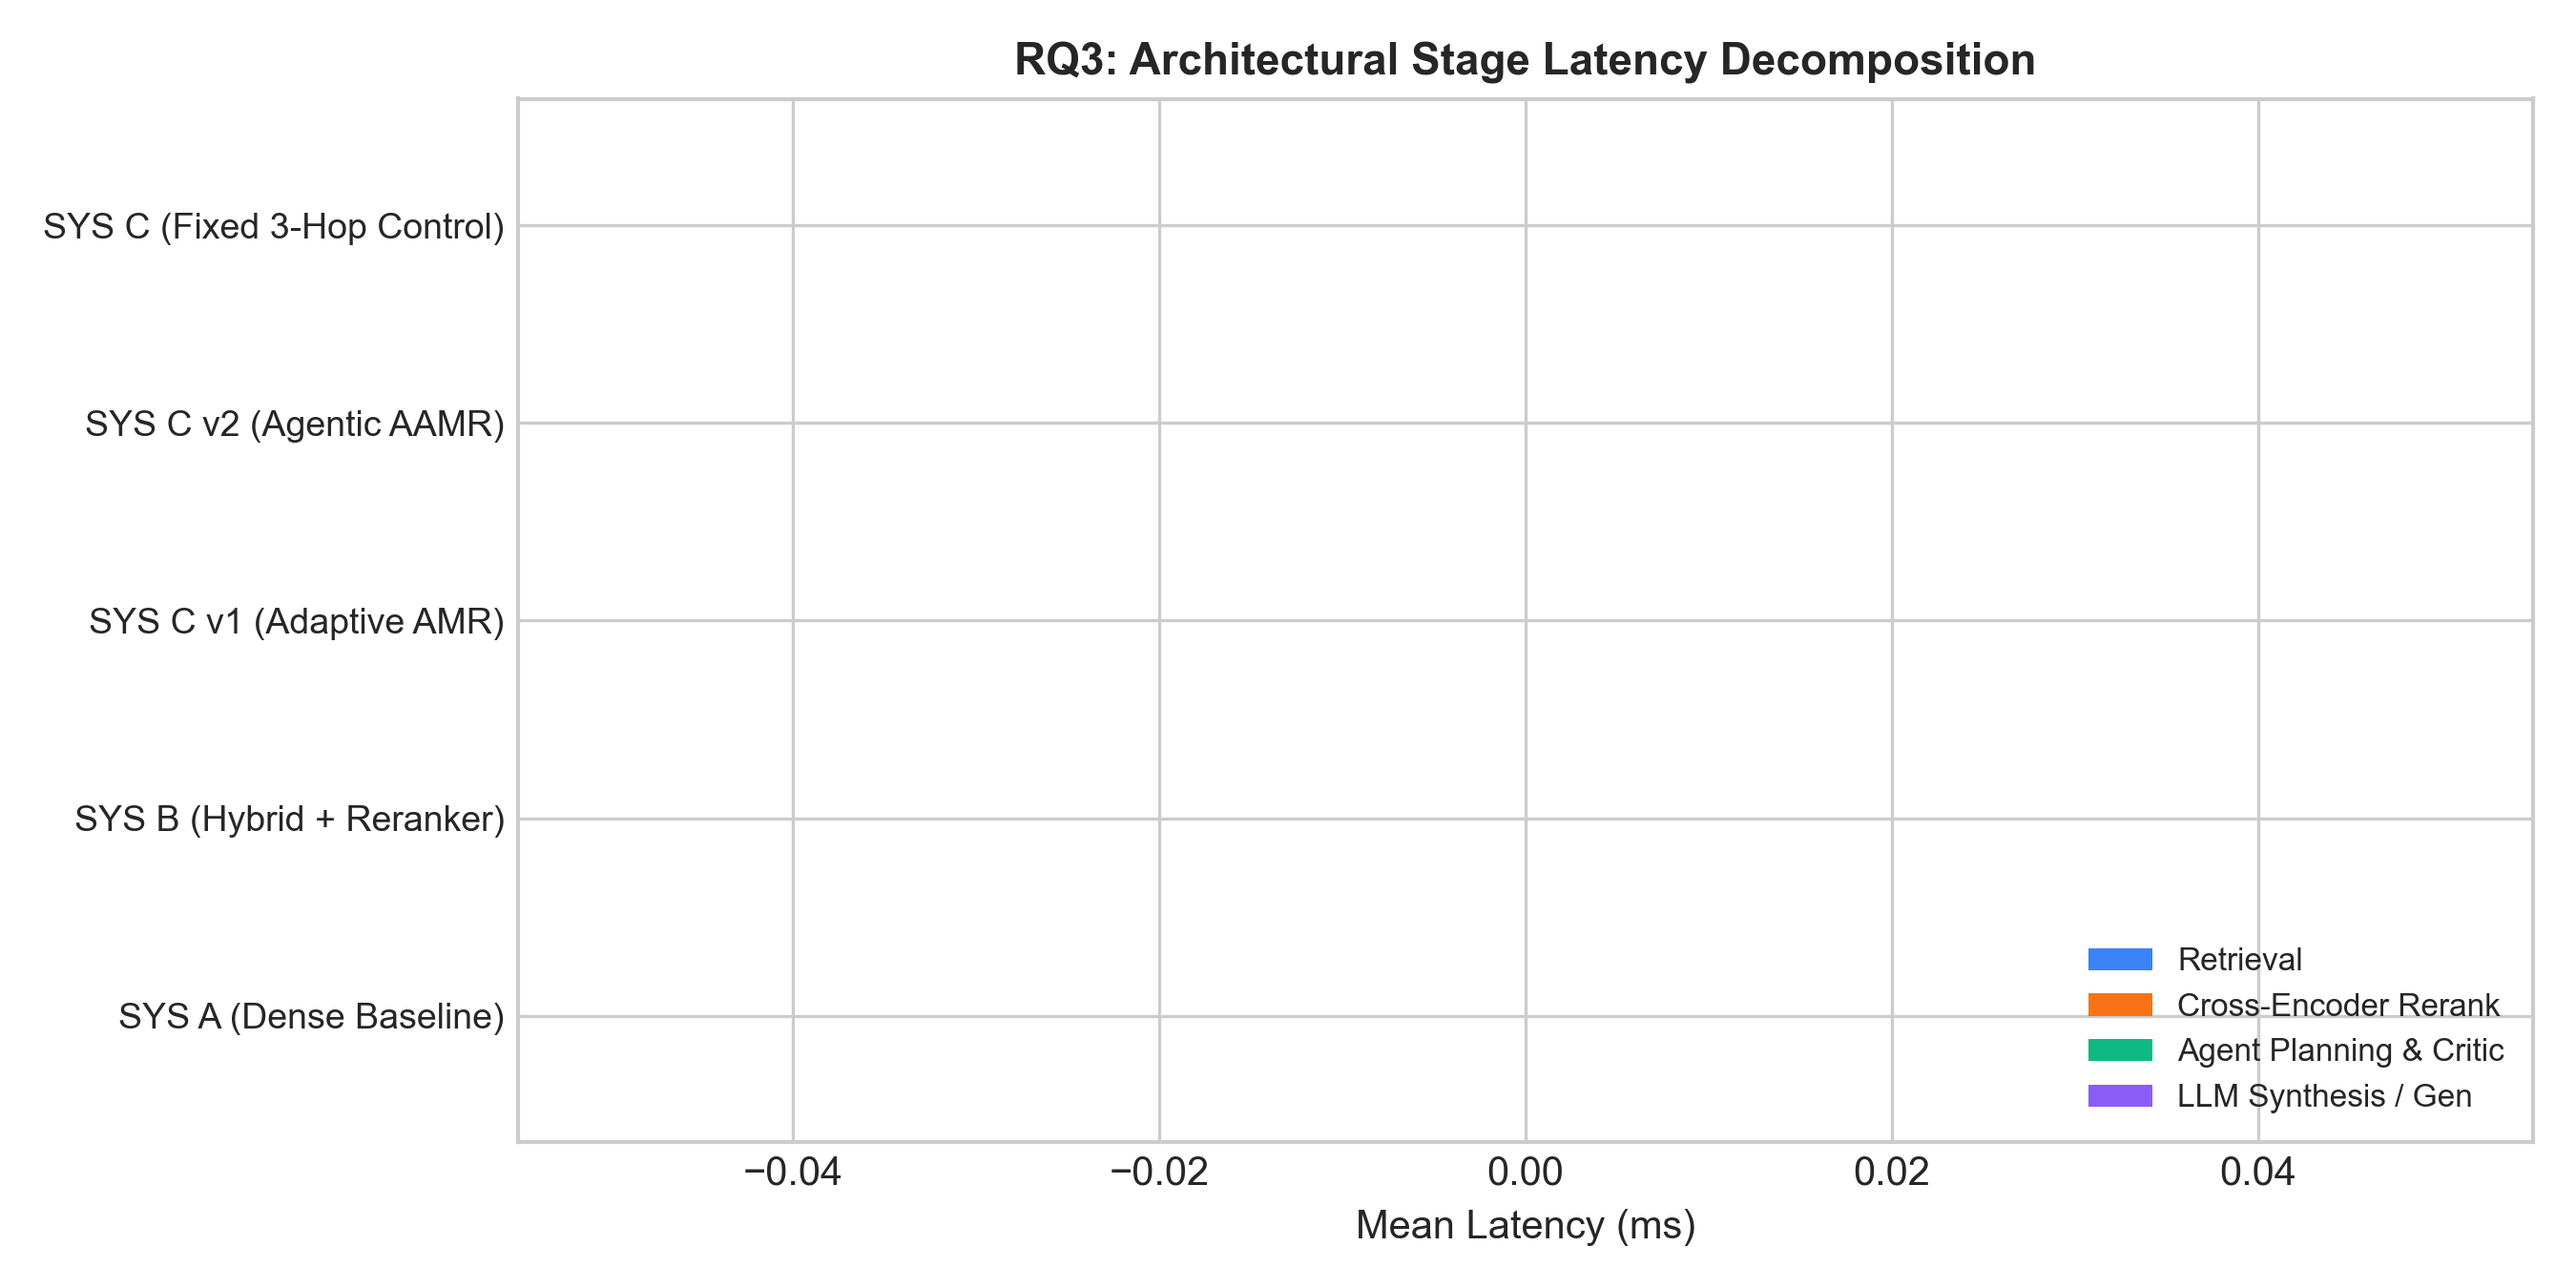
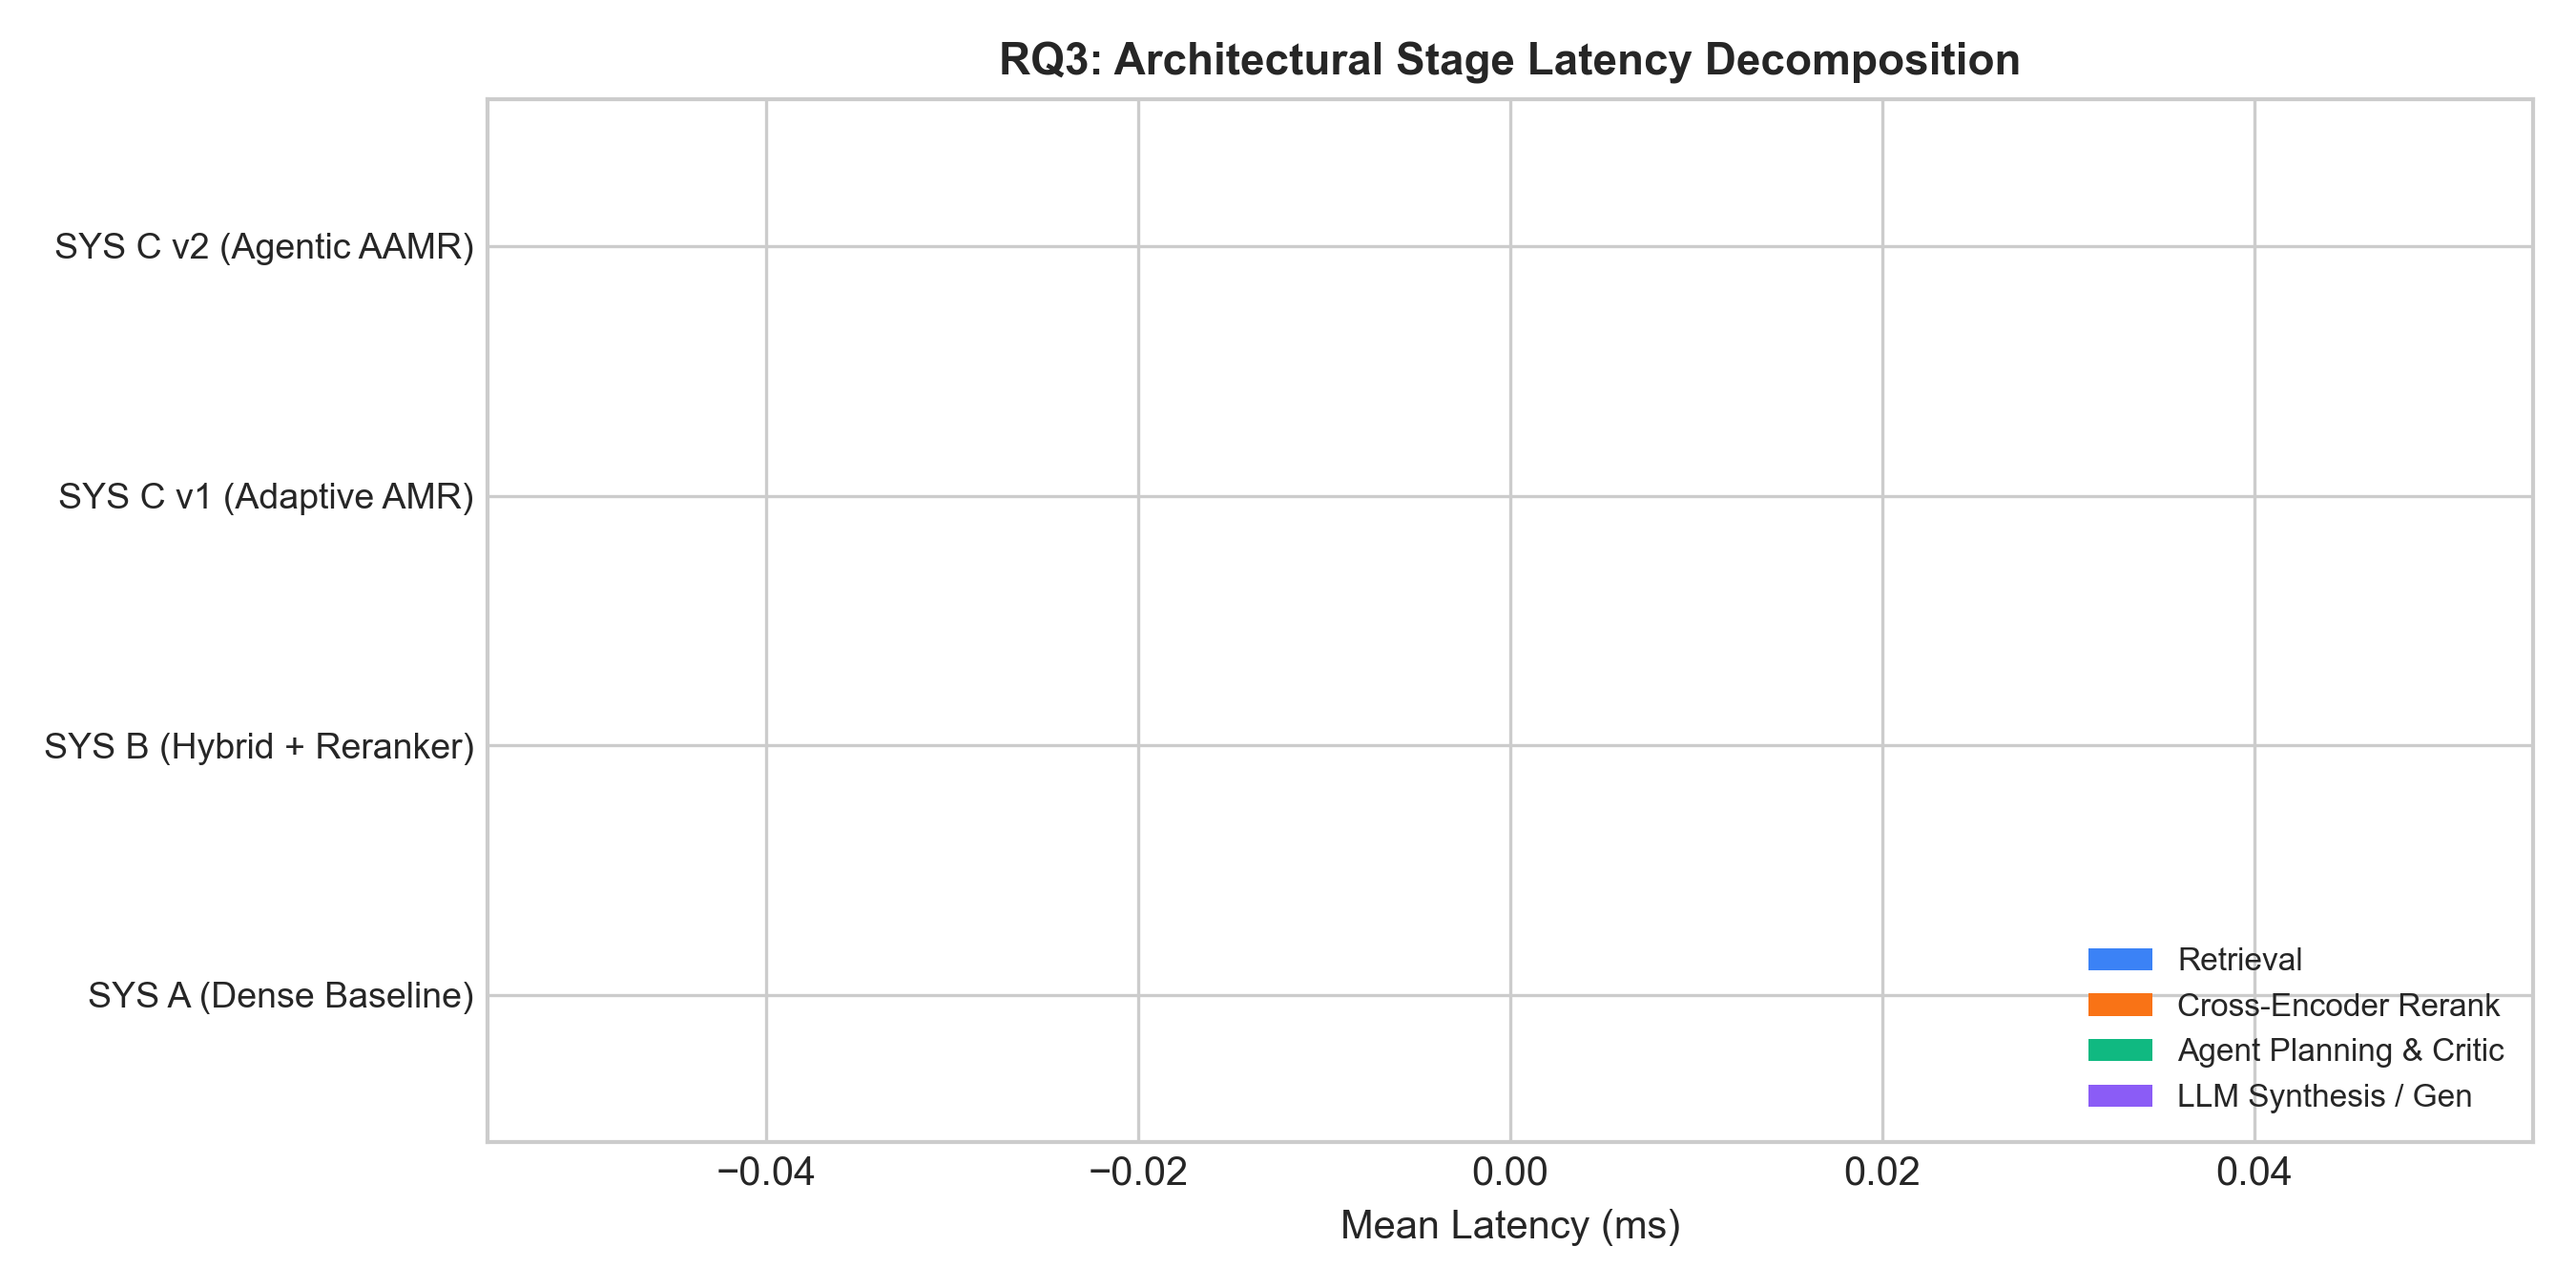
feat(rq3): enforce strictly 4 RAG systems and implement loud stop fail-fast guard

diff --git a/scripts/rq3/run_rq3_experiment.py b/scripts/rq3/run_rq3_experiment.py
@@ -38,7 +38,7 @@ DEFAULT_BENCHMARK_2015 = REPO_ROOT / "data" / "benchmark_qa_pool_2015.json"
 DEFAULT_RECORDS_FILE = REPO_ROOT / "reports" / "rq3" / "records.jsonl"
 DEFAULT_ERRORS_FILE = REPO_ROOT / "reports" / "rq3" / "errors.jsonl"
 
-ALL_SYSTEMS = ["system_a", "system_b", "system_c_v1", "system_c_v2", "system_c_fixed_3hop"]
+ALL_SYSTEMS = ["system_a", "system_b", "system_c_v1", "system_c_v2"]
 
 
 def load_benchmark_records(path: Path, min_year: int = 2015) -> List[Dict[str, Any]]:
@@ -137,6 +137,7 @@ def run_experiment(
     verbose: bool = True,
     mock: bool = False,
     clean: bool = False,
+    fail_fast: bool = True,
 ) -> Dict[str, int]:
     """Execute the controlled RQ3 benchmark experiment across the specified systems."""
     if mock:
@@ -254,7 +255,15 @@ def run_experiment(
                 }
                 ef.write(json.dumps(err_record, ensure_ascii=False) + "\n")
                 ef.flush()
-                print(f"[{idx}/{total_tasks}] {sys_name} {q['id']} FAILED: {exc}", file=sys.stderr)
+                import traceback
+                print("\n" + "=" * 80, file=sys.stderr)
+                print(f"❌ LOUD STOP: System [{sys_name}] failed on Question [{q['id']}]!", file=sys.stderr)
+                print(f"Error Type: {type(exc).__name__}", file=sys.stderr)
+                print(f"Error Message: {exc}", file=sys.stderr)
+                traceback.print_exc()
+                print("=" * 80 + "\n", file=sys.stderr)
+                if fail_fast:
+                    raise exc
 
     return counts
 
@@ -269,6 +278,7 @@ def main():
     parser.add_argument("--warmup", type=int, default=3, help="Number of warmup queries per system (default: 3).")
     parser.add_argument("--mock", action="store_true", help="Force mock LLM provider for zero-cost rapid testing.")
     parser.add_argument("--clean", action="store_true", help="Clean prior output records before starting (disable resume).")
+    parser.add_argument("--no-fail-fast", action="store_true", help="Continue running other queries if a query fails (default is loud stop).")
     parser.add_argument("--records-out", type=Path, default=DEFAULT_RECORDS_FILE, help="Path to write records JSONL.")
     parser.add_argument("--errors-out", type=Path, default=DEFAULT_ERRORS_FILE, help="Path to write errors JSONL.")
     args = parser.parse_args()
@@ -286,6 +296,7 @@ def main():
         seed=args.seed,
         warmup_count=args.warmup,
         clean=args.clean,
+        fail_fast=not args.no_fail_fast,
     )
     print("\n" + "=" * 60)
     print(f"RQ3 Experiment Complete: {counts['generated']} generated, {counts['skipped']} skipped, {counts['failed']} failed")

diff --git a/scripts/rq3/evaluate_rq3.py b/scripts/rq3/evaluate_rq3.py
@@ -75,11 +75,12 @@ def compute_wilcoxon_tests(df: pd.DataFrame) -> Dict[str, Any]:
         return {"note": "scipy not available for Wilcoxon tests"}
 
     comparisons = [
-        ("system_c_v1", "system_c_fixed_3hop", "tokens_total", "H3a Token Savings (Adaptive vs Fixed-3Hop)"),
-        ("system_c_v1", "system_c_fixed_3hop", "latency_ms", "H3a Latency Savings (Adaptive vs Fixed-3Hop)"),
         ("system_c_v2", "system_c_v1", "hops", "H3c Hop Reduction (AAMR vs AMR)"),
-        ("system_c_v1", "system_b", "numeric_correct", "H3b Accuracy vs System B"),
+        ("system_c_v2", "system_c_v1", "latency_ms", "AAMR Latency vs AMR"),
+        ("system_c_v1", "system_b", "numeric_correct", "H3b Accuracy vs System B Hybrid"),
+        ("system_c_v2", "system_b", "numeric_correct", "AAMR Accuracy vs System B Hybrid"),
         ("system_b", "system_a", "latency_ms", "System B Rerank Latency vs System A"),
+        ("system_b", "system_a", "numeric_correct", "System B Accuracy vs System A"),
     ]
 
     p_raw, test_meta = [], []
@@ -274,14 +275,12 @@ def plot_pareto_and_figures(summary: Dict[str, Any], df: pd.DataFrame, out_dir: 
         "system_b": "#3b82f6",
         "system_c_v1": "#10b981",
         "system_c_v2": "#8b5cf6",
-        "system_c_fixed_3hop": "#f59e0b",
     }
     labels = {
         "system_a": "SYS A (Dense Baseline)",
         "system_b": "SYS B (Hybrid + Reranker)",
         "system_c_v1": "SYS C v1 (Adaptive AMR)",
         "system_c_v2": "SYS C v2 (Agentic AAMR)",
-        "system_c_fixed_3hop": "SYS C (Fixed 3-Hop Control)",
     }
 
     xs, ys, names = [], [], []

diff --git a/tests/test_rq3_harness.py b/tests/test_rq3_harness.py
@@ -135,10 +135,11 @@ def test_rq3_experiment_and_evaluate_end_to_end(tmp_path):
         mock=True,
     )
 
+    assert len(ALL_SYSTEMS) == 4
     assert records_file.exists()
     lines = records_file.read_text(encoding="utf-8").strip().splitlines()
-    # 2 queries * 5 systems = 10 records
-    assert len(lines) == 10
+    # 2 queries * 4 systems = 8 records
+    assert len(lines) == 8
 
     records = [json.loads(line) for line in lines]
     systems_seen = {r["system"] for r in records}
@@ -167,7 +168,7 @@ def test_rq3_experiment_and_evaluate_end_to_end(tmp_path):
     assert "systems" in summary
     assert "hypotheses_tests" in summary
     assert "routing_cascade_simulation" in summary
-    assert len(summary["systems"]) == 5
+    assert len(summary["systems"]) == 4
 
     for sys_name in ALL_SYSTEMS:
         s_data = summary["systems"][sys_name]
